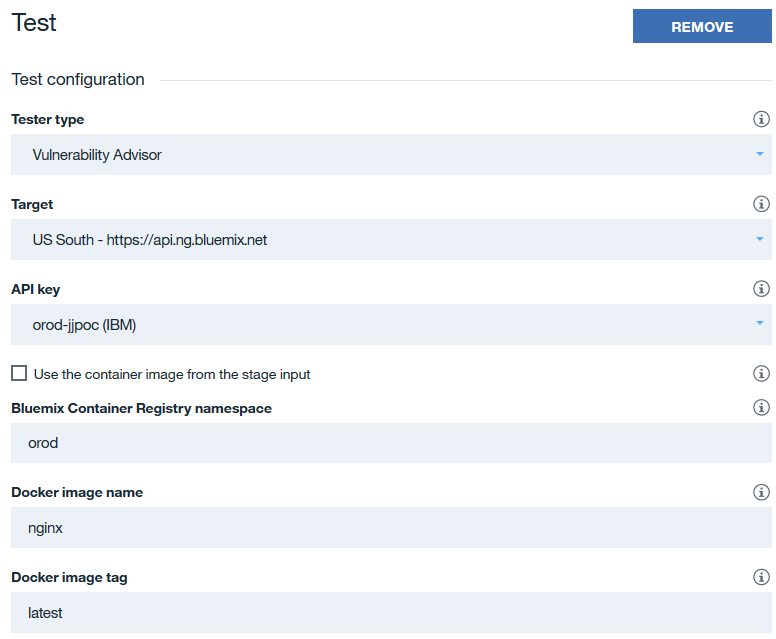
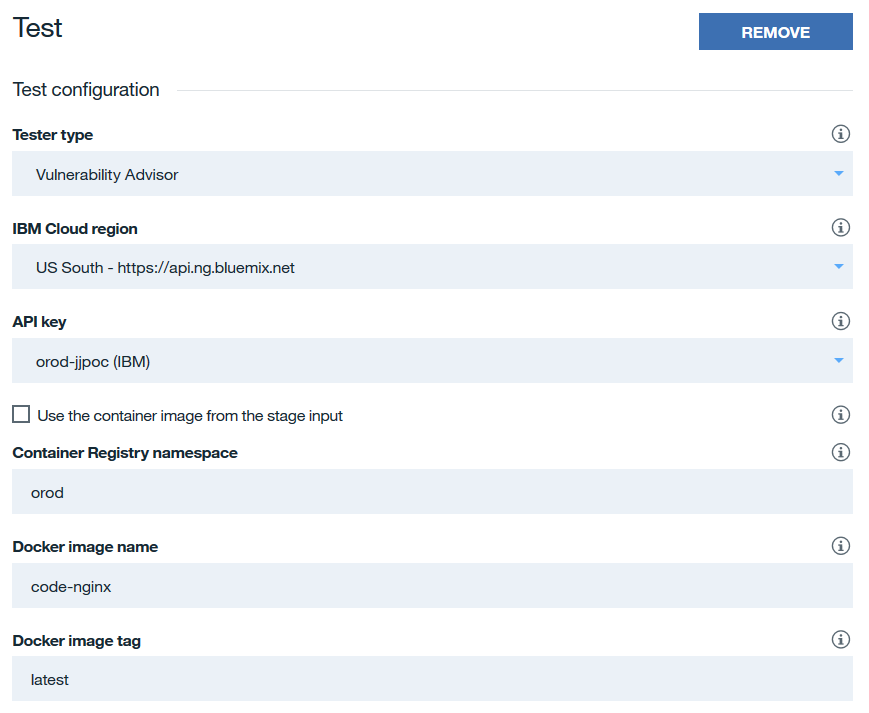
Fixing test stage screenshot

diff --git a/docs/PIPELINE-SETUP.md b/docs/PIPELINE-SETUP.md
@@ -50,8 +50,8 @@ For the purpose of this POC, we have one repo that contains all of our images an
 9. Add another tool
 10. Select **Delivery Pipeline**
 
-  ![Git Settings](img/deliveryPipeline.png)
-  
+  ![Git Settings](img/deliveryPipeline.PNG)
+
   - Name the pipeline **nginx**
   - Click **Create Integration**
 
@@ -99,7 +99,7 @@ For the purpose of this POC, we have one repo that contains all of our images an
 21. Under *Tester Type*, select **Vulnerability Advisor**
   - Under *API Key* slect the key for your org or enter a new one
   - Under *Bluemix Container Registry Namespace* enter your Namespace
-  - Select the *Docker Image Name* and *Docker Image Tag* that you want to test.
+  - Select the *Docker Image Name* and *Docker Image Tag* that you want to test. Be sure to include the "code-" portion of your image name as seen in the image below.
   - Add any additional testing scripts in the *Test Script* area.
   - When done, click *Save*
 
